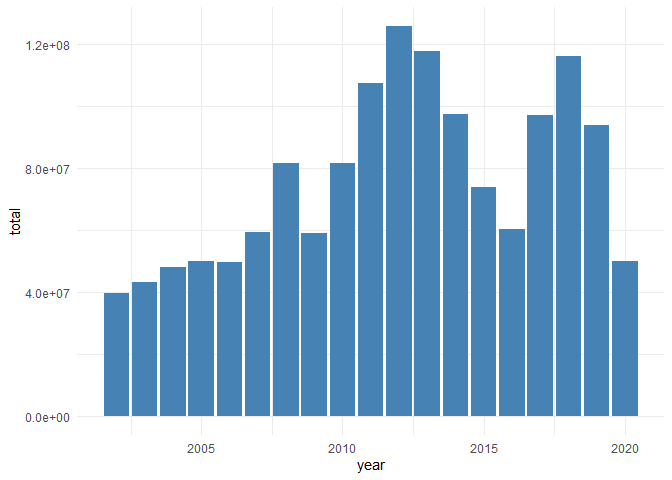
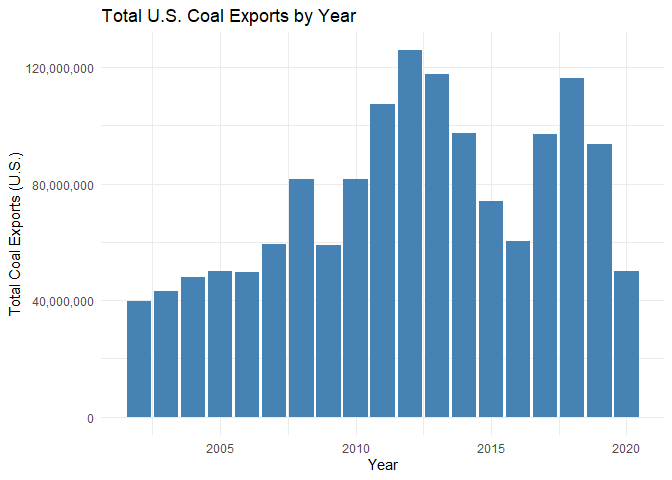
edited figure 1

diff --git a/R/coal.html b/R/coal.html
@@ -11,7 +11,7 @@
 
 <meta name="author" content="Cyrus Tadjiki &amp; Matt McCoy" />
 
-<meta name="date" content="2021-04-21" />
+<meta name="date" content="2021-04-22" />
 
 <title>US coal exports</title>
 
@@ -321,7 +321,7 @@ div.tocify {
 
 <h1 class="title toc-ignore">US coal exports</h1>
 <h4 class="author">Cyrus Tadjiki &amp; Matt McCoy</h4>
-<h4 class="date">21 April 2021</h4>
+<h4 class="date">22 April 2021</h4>
 
 </div>
 
@@ -423,13 +423,39 @@ div.tocify {
 <span id="cb10-2"><a href="#cb10-2" aria-hidden="true" tabindex="-1"></a>  </span>
 <span id="cb10-3"><a href="#cb10-3" aria-hidden="true" tabindex="-1"></a>plot<span class="ot">&lt;-</span><span class="fu">ggplot</span>(<span class="at">data=</span>coal_clean, <span class="fu">aes</span>(<span class="at">x=</span>year, <span class="at">y=</span>total)) <span class="sc">+</span></span>
 <span id="cb10-4"><a href="#cb10-4" aria-hidden="true" tabindex="-1"></a>  <span class="fu">geom_bar</span>(<span class="at">stat=</span><span class="st">&quot;identity&quot;</span>, <span class="at">fill=</span><span class="st">&quot;steelblue&quot;</span>)<span class="sc">+</span></span>
-<span id="cb10-5"><a href="#cb10-5" aria-hidden="true" tabindex="-1"></a>  <span class="fu">theme_minimal</span>()</span>
+<span id="cb10-5"><a href="#cb10-5" aria-hidden="true" tabindex="-1"></a>  <span class="fu">theme_minimal</span>() <span class="sc">+</span> <span class="fu">scale_y_continuous</span>(<span class="at">labels =</span> scales<span class="sc">::</span>comma) <span class="sc">+</span> <span class="fu">labs</span>(<span class="at">title =</span> <span class="st">&quot;Total U.S. Coal Exports by Year&quot;</span>, <span class="at">x =</span> <span class="st">&quot;Year&quot;</span>, <span class="at">y =</span> <span class="st">&quot;Total Coal Exports (U.S.)&quot;</span>) </span>
 <span id="cb10-6"><a href="#cb10-6" aria-hidden="true" tabindex="-1"></a>plot</span></code></pre></div>
 <pre><code>## Warning: Removed 1139 rows containing missing values (position_stack).</code></pre>
[2 lines of base64/hex data omitted]
+<p><strong>For the first 5 or 6 years there is little to no growth in coal exports, but it doesn’t take off until 2008 where coal exports really increase. In 2012 U.S. coal exports peak before slowly decreasing over the next 4 years, and recovering in 2017/2018. It’s likely that decreases in exports like in the years following 2012 are due to a decrease in demand for U.S. coal and an increase in demand for coal somewhere else. These trends can also be affected by improved green energy sources and people wanting to reduce carbon emissions due to climate change. We can see the effect that COVID-19 had on US coal exports as the virus was announced at the end of 2019 and much of the pandemic took place in 2020, which is where we see a very large decrease in coal exports from the U.S.</strong></p>
 </div>
 <div id="total-us-coal-exports-over-time-year-and-quarter" class="section level2">
 <h2>3) Total US coal exports over time (year AND quarter)</h2>
+<div class="sourceCode" id="cb12"><pre class="sourceCode r"><code class="sourceCode r"><span id="cb12-1"><a href="#cb12-1" aria-hidden="true" tabindex="-1"></a>coal_clean <span class="sc">%&gt;%</span> </span>
+<span id="cb12-2"><a href="#cb12-2" aria-hidden="true" tabindex="-1"></a>  <span class="co">#filter(coal_origin_county = &quot;United States&quot;)</span></span>
+<span id="cb12-3"><a href="#cb12-3" aria-hidden="true" tabindex="-1"></a>  <span class="fu">group_by</span>(year, quarter) <span class="sc">%&gt;%</span></span>
+<span id="cb12-4"><a href="#cb12-4" aria-hidden="true" tabindex="-1"></a>  <span class="fu">summarise</span>(<span class="fu">sum</span>(total, <span class="at">na.rm =</span> T))  </span></code></pre></div>
+<pre><code>## # A tibble: 75 x 3
+## # Groups:   year [19]
+##     year quarter `sum(total, na.rm = T)`
+##    &lt;dbl&gt;   &lt;dbl&gt;                   &lt;dbl&gt;
+##  1  2002       1                 9252584
+##  2  2002       2                11042519
+##  3  2002       3                 9256554
+##  4  2002       4                10049584
+##  5  2003       1                 8517778
+##  6  2003       2                11449798
+##  7  2003       3                12093944
+##  8  2003       4                10951988
+##  9  2004       1                 9688063
+## 10  2004       2                15255342
+## # ... with 65 more rows</code></pre>
+<div class="sourceCode" id="cb14"><pre class="sourceCode r"><code class="sourceCode r"><span id="cb14-1"><a href="#cb14-1" aria-hidden="true" tabindex="-1"></a>plot2<span class="ot">&lt;-</span><span class="fu">ggplot</span>(<span class="at">data=</span>coal_clean, <span class="fu">aes</span>(<span class="at">x=</span>year <span class="sc">+</span> quarter, <span class="at">y=</span>total)) <span class="sc">+</span></span>
+<span id="cb14-2"><a href="#cb14-2" aria-hidden="true" tabindex="-1"></a>  <span class="fu">geom_bar</span>(<span class="at">stat=</span><span class="st">&quot;identity&quot;</span>, <span class="at">fill=</span><span class="st">&quot;steelblue&quot;</span>)<span class="sc">+</span></span>
+<span id="cb14-3"><a href="#cb14-3" aria-hidden="true" tabindex="-1"></a>  <span class="fu">theme_minimal</span>()</span>
+<span id="cb14-4"><a href="#cb14-4" aria-hidden="true" tabindex="-1"></a>plot2</span></code></pre></div>
+<pre><code>## Warning: Removed 1139 rows containing missing values (position_stack).</code></pre>
[1 lines of base64/hex data omitted]
 <p>Now do the same as the above, expect aggregated quarter of year (2001Q1, 2002Q2, etc.). Do you notice any seasonality that was masked from the yearly averages?</p>
 <p><em>Hint: ggplot2 is going to want you to convert your quarterly data into actual date format before it plots nicely. (i.e. Don’t leave it as a string.)</em></p>
 </div>
